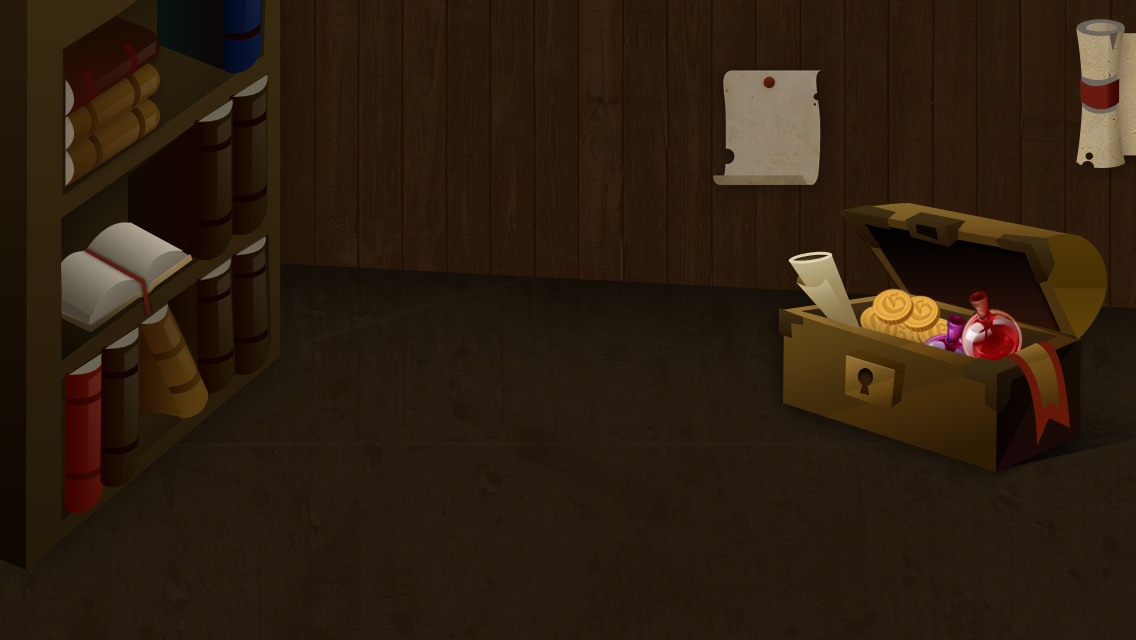
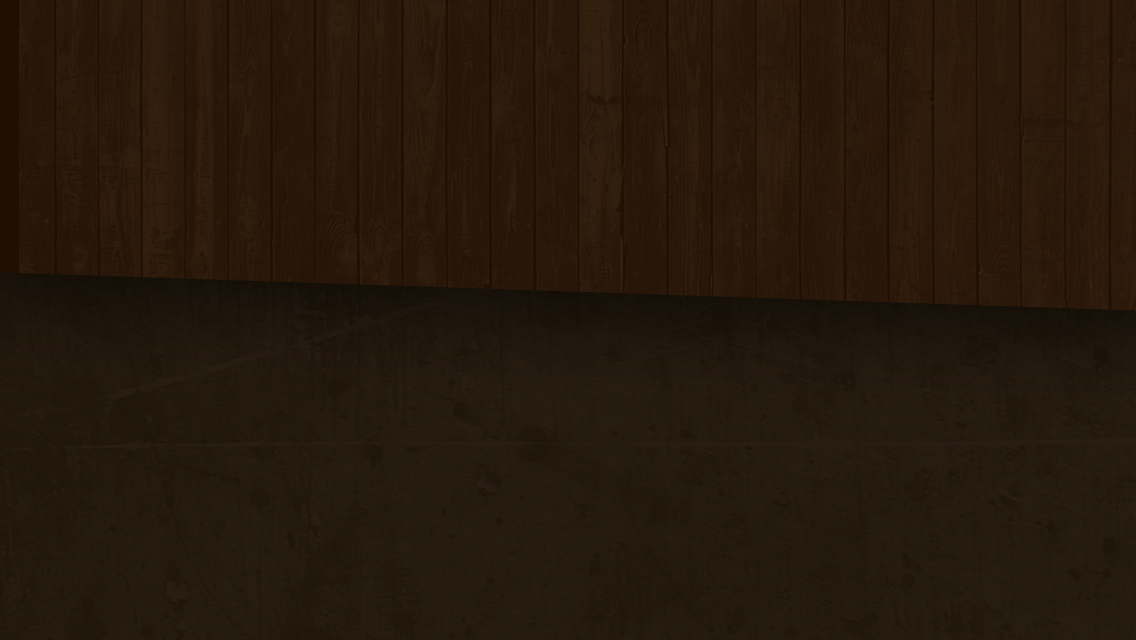
add StageObjects( BookShelf, PrivateChest, Campfire )

diff --git a/GameClientMobile/StoryOfEren/Classes/StageObjectImageLoader.cpp b/GameClientMobile/StoryOfEren/Classes/StageObjectImageLoader.cpp
@@ -40,6 +40,15 @@ CCSprite* StageObjectImageLoader::GetStageObjectImage(flownet::StageObjectType s
         case flownet::StageObjectType_ColosseumCenter:
             imageName += "colosseum_center.png";
             break;
+        case flownet::StageObjectType_BookShelf:
+            imageName +="bookshelf.png";
+            break;
+        case flownet::StageObjectType_PrivateChest:
+            imageName +="private_chest.png";
+            break;
+        case flownet::StageObjectType_Campfire:
+            imageName +="campfire.png";
+            break;
         default:
             ASSERT_DEBUG(false);
             break;
